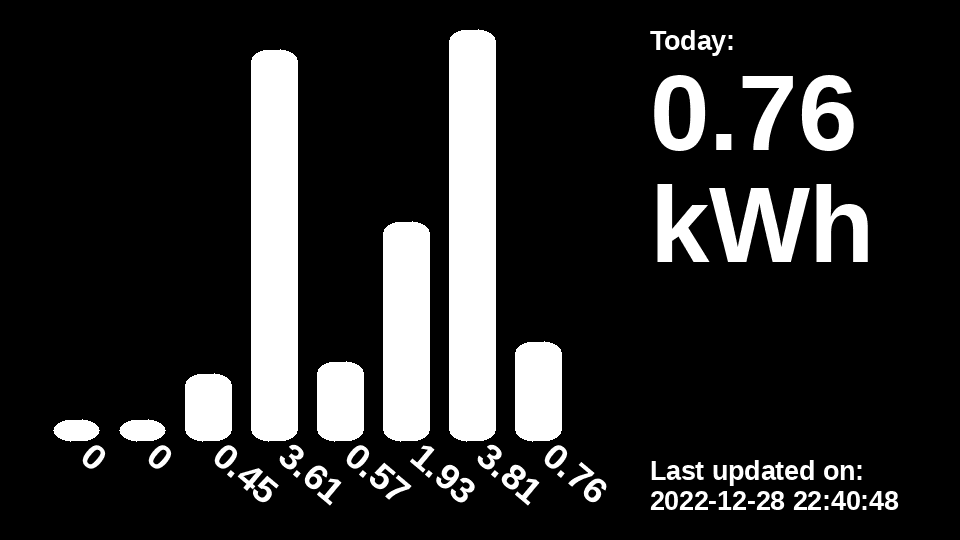
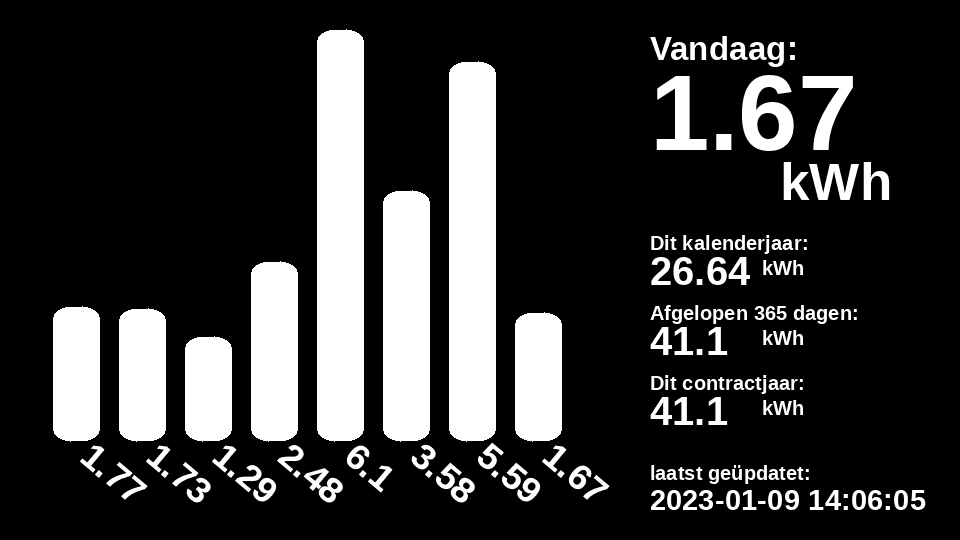
changes?? (backup commit)

diff --git a/php/img.php b/php/img.php
@@ -1,4 +1,5 @@
 <?php
+// https://knowledge-center.solaredge.com/sites/kc/files/se_monitoring_api.pdf
 
 class curlclass
 {
@@ -182,21 +183,66 @@ class Display
   }
 
   public function draw() {
-    $from = date("Y-m-d", strtotime("7 days ago"));
+    //$from = date("Y-m-d", strtotime("7 days ago"));
+    $from = date("Y-m-d", strtotime("1 year ago + 1 day")); // 10-1-2022 tot en met 09-1-2022
     $to = date("Y-m-d");
     $se = $this->solarEdge->getSiteEnergy($from, $to, 'DAY');
     $vals = $se['energy']['values'];
-    //print_r($vals);
 
-    imagettftext($this->gd, 20, 0, 650, 50, $this->white, $this->font, 'Today:');
-    $text = ($vals[count($vals)-1]['value']/1000)."\nkWh";
+    // BARS
+    $vals_bak = $vals;
+    $this->drawBars(array_splice($vals_bak, -8));
+
+    // TODAY
+    //imagettftext($this->gd, 20, 0, 650, 50, $this->white, $this->font, 'Today:');
+    imagettftext($this->gd, 25, 0, 650, 60, $this->white, $this->font, 'Vandaag:');
+    $text = round($vals[count($vals)-1]['value']/1000,2);
+    //if ($text > 10)
+    //  $text = round($text, 2);
     imagettftext($this->gd, 80, 0, 650, 150, $this->white, $this->font, $text);
+    imagettftext($this->gd, 40, 0, 780, 200, $this->white, $this->font, "kWh");
 
-    $this->drawBars($vals);
-
+    // LAST UPDATE
     $sov = $this->solarEdge->getSiteOverview();
-    imagettftext($this->gd, 20, 0, 650, $this->canvas_height-60, $this->white, $this->font, 'Last updated on:');
-    imagettftext($this->gd, 20, 0, 650, $this->canvas_height-30, $this->white, $this->font, $sov['overview']['lastUpdateTime']);
+    imagettftext($this->gd, 15, 0, 650, $this->canvas_height-60, $this->white, $this->font, 'laatst geüpdatet:');
+    //imagettftext($this->gd, 20, 0, 650, $this->canvas_height-60, $this->white, $this->font, 'Last updated on:');
+    imagettftext($this->gd, 22, 0, 650, $this->canvas_height-30, $this->white, $this->font, $sov['overview']['lastUpdateTime']);
+
+    // THIS YEAR
+    $text = round($sov['overview']['lastYearData']['energy']/1000,2);
+    imagettftext($this->gd, 15, 0, 650, 250, $this->white, $this->font, "Dit kalenderjaar:");
+    imagettftext($this->gd, 30, 0, 650, 285, $this->white, $this->font, $text);
+    $box1 = $this->calculateTextBox($text, $this->font, 30,0);
+
+    // LAST 365 DAYS
+    $last365days = array_reduce($se['energy']['values'], function($c, $i){ return $c + $i['value']; });
+    $text = round($last365days/1000,2);
+    imagettftext($this->gd, 15, 0, 650, 320, $this->white, $this->font, "Afgelopen 365 dagen:");
+    imagettftext($this->gd, 30, 0, 650, 355, $this->white, $this->font, $text);
+    $box2 = $this->calculateTextBox($text, $this->font, 30,0);
+
+    // THIS CONTRACT YEAR
+    $contractdate = strtotime("aug 13 00:00:00");
+    if ($contractdate > time())
+      $contractdate = strtotime('-1 year', $contractdate);
+
+    $thiscontract = array_reduce($se['energy']['values'], function($c, $i) use ($contractdate){
+        if (strtotime($i['date']) >= $contractdate) {
+          return $c + $i['value'];
+        }
+        return $c;
+      });
+
+    $text = round($thiscontract/1000,2);
+    imagettftext($this->gd, 15, 0, 650, 390, $this->white, $this->font, "Dit contractjaar:");
+    imagettftext($this->gd, 30, 0, 650, 425, $this->white, $this->font, $text);
+    $box3 = $this->calculateTextBox($text, $this->font, 30,0);
+
+    // KWH LABELS
+    $maxbox = max($box1['width'], $box2['width'], $box3['width']);
+    imagettftext($this->gd, 15, 0, 650 + $maxbox + 10, 275, $this->white, $this->font, "kWh");
+    imagettftext($this->gd, 15, 0, 650 + $maxbox + 10, 345, $this->white, $this->font, "kWh");
+    imagettftext($this->gd, 15, 0, 650 + $maxbox + 10, 415, $this->white, $this->font, "kWh");
   }
 
   public function imagettftextcentered($gd, $size, $angle, $x_center, $y_center, $color, $font, $text, $options = []){

diff --git a/src/main.cpp b/src/main.cpp
@@ -173,10 +173,17 @@ void setup()
 
     // connect to wifi
     WiFi.begin("your wifi", "password");
+    int timeoutCounter = 0;
     while (WiFi.status() != WL_CONNECTED)
     {
         delay(500);
         Serial.print(".");
+        timeoutCounter++;
+        if (timeoutCounter == 120) { // 60 sec
+            //ESP.restart();
+            esp_sleep_enable_ext0_wakeup(FIRST_BTN_PIN, 0);
+            ESP.deepSleep(1e6 * 120); //120 sec
+        }
     }
     Serial.println("");
     Serial.println("WiFi connected");
@@ -188,6 +195,7 @@ void setup()
 
     // get the screen image
     HTTPClient http;
+    http.useHTTP10();
     http.begin("http://www.vedelaar.nl/helium.php");
     http.setTimeout(60000);
     Serial.print("[HTTP] GET...\n");
